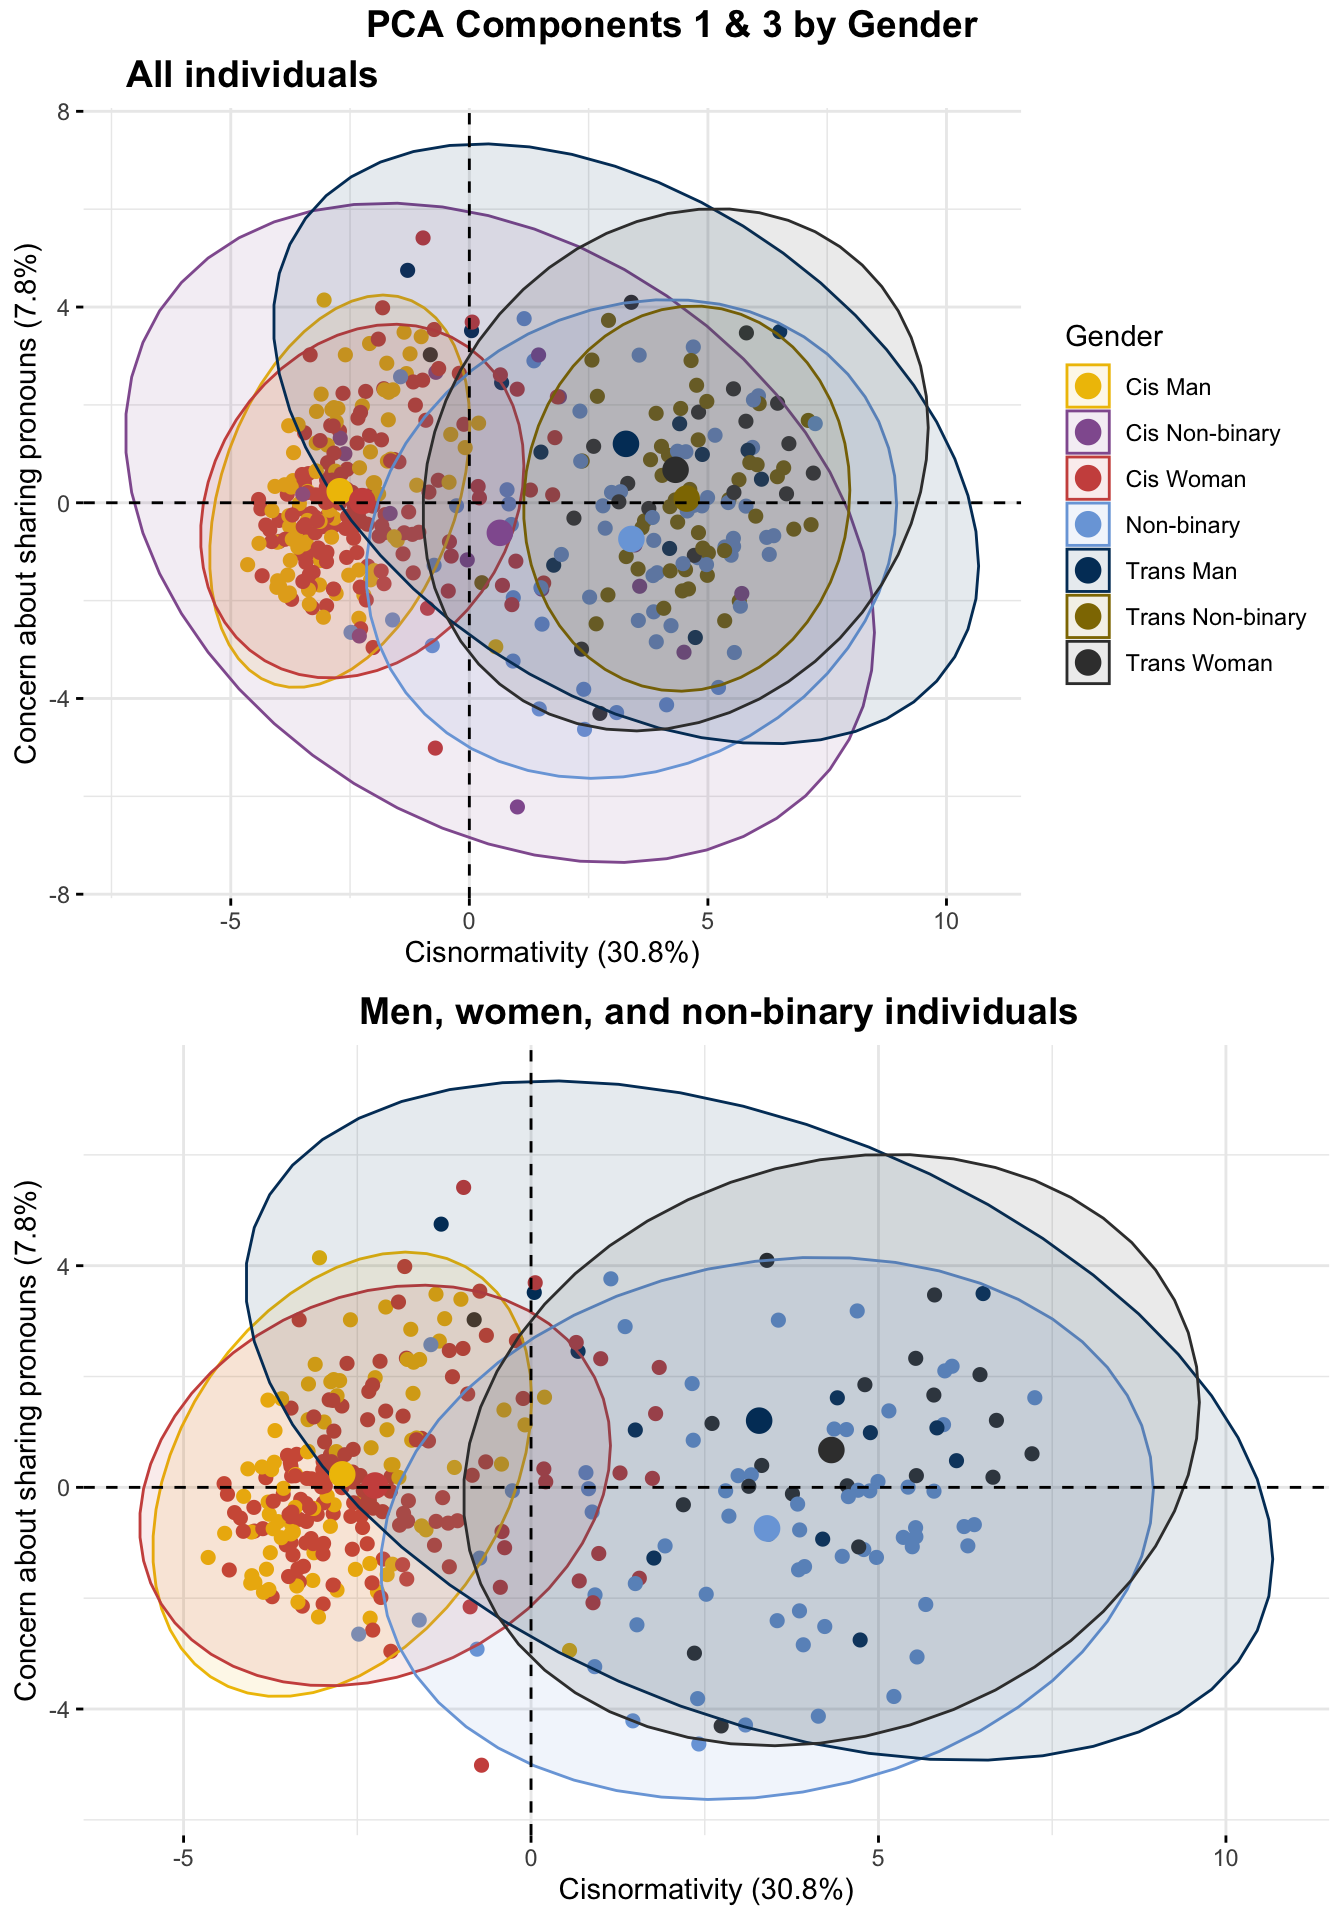
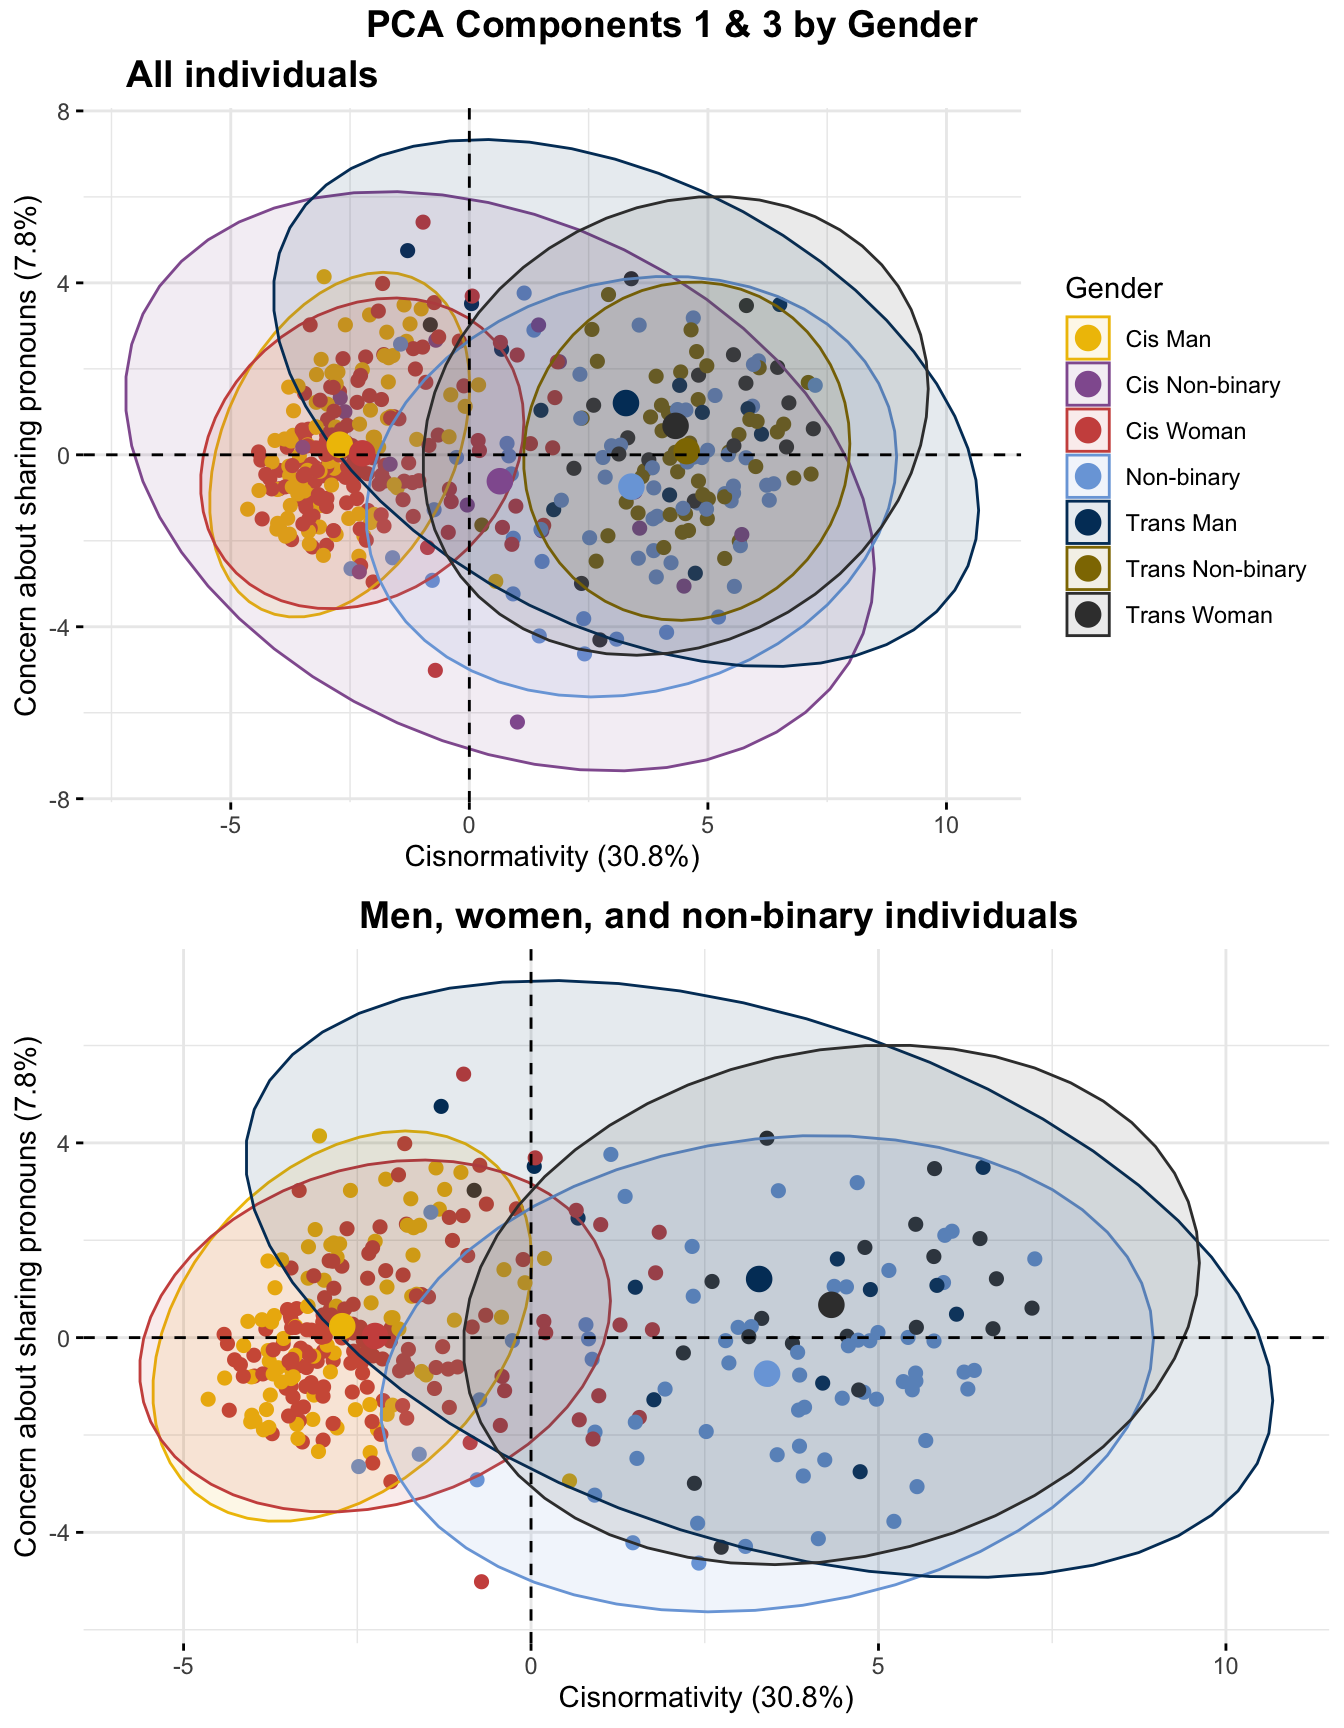
for my loyals fans :~)

diff --git a/3-results.html b/3-results.html
@@ -579,7 +579,7 @@ A Tukey post-hoc comparison revealed that cisgender men (<em>M</em> = 37.31, <em
 <h3><span class="header-section-number">3.5.1</span> Comfort sharing pronouns</h3>
 <!-- includes items 1, 2, 3, 7, 8, 9 -->
 <p>Items 1, 2, 3, 7, 8, and 9 touched on participant’s comfort sharing their pronouns.
-A factorial ANOVA found x effect of setting and x effect of a third-party’s presence or initiation on sharing pronouns.</p>
+A factorial ANOVA found a significant effect of setting, gender, and pronouns on comfort sharing pronouns, <em>F</em>(2, 1287) = 17.08, <em>p</em> &lt; 0.001. A post-hoc Tukey test found that generally, students are more comfortable sharing pronouns in class, (<em>M</em> = 4.5, <em>SD</em> = 0.98), and in non-academic settings at Reed, (<em>M</em> = 4.43, <em>SD</em> = 1.07), than they are in general, (<em>M</em> = 4.14, <em>SD</em> = 1.31). It also found that cisgender men, (<em>M</em> = 4.65, <em>SD</em> = 0.78), are more comfortable sharing their pronouns than trans men, (<em>M</em> = 4.11, <em>SD</em> = 1.24), trans women, (<em>M</em> = 3.22, <em>SD</em> = 1.51), and non-binary people, (<em>M</em> = 3.66, <em>SD</em> = 1.4). <strong>There are a lot of other effects (126 total!) and I’m not sure how to report all of them.</strong></p>
 </div>
 <div id="desire-to-share-pronouns" class="section level3" number="3.5.2">
 <h3><span class="header-section-number">3.5.2</span> Desire to share pronouns</h3>
@@ -1016,10 +1016,11 @@ misgendering_stigma
 <p>Loadings from the second component encompasses one’s desire to share one’s pronouns in various settings, as well as how comfortable one feels doing so. Because the largest loading in the second component is one’s desire to share pronouns, this seems to indicate one’s readiness to share pronouns.</p>
 <p>Loadings from the third component emphasize concern that sharing one’s pronouns will draw unwanted attention, as well as when others—not necessarily of the same gender—share their pronouns first and how consistent and representative one’s pronouns are with one’s gender. This component appears to represent concern around sharing pronouns and fears of judgment or lack of understanding about one’s pronouns.</p>
 <p><img src="thesis_files/figure-html/pca_vis-1.png" width="672" style="display: block; margin: auto;" /></p>
-<p>Visualization of the first and second component indicated possible bimodality along the first component. Hartigan’s dip test confirmed this, (<em>D</em> = 0.032, <em>p</em> = 0.006). This indicates that experiences with cisnormativity may be described as bimodal, likely indicating that cisgender and non-cisgender people have significantly different experiences navigating the world as their gender.</p>
-<p>A one-way ANOVA demonstrated a significant effect of gender on the first component, <em>F</em>(6, 391) = 226.3, <em>p</em> &lt; 0.001. A post-hoc Tukey test revealed that cisgender men, (<em>M</em> = -2.72, <em>SD</em> = 1.09), and women, (<em>M</em> = -2.25, <em>SD</em> = 1.37), are significantly less affected by cisnormativity than trans men, (<em>M</em> = 3.28, <em>SD</em> = 2.62), trans women, (<em>M</em> = 4.32, <em>SD</em> = 2), cisgender non-binary people, (<em>M</em> = 0.64, <em>SD</em> = 2.87), non-binary people, (<em>M</em> = 3.4, <em>SD</em> = 2.22), and transgender non-binary people, (<em>M</em> = 4.56, <em>SD</em> = 1.35). Cisgender non-binary people are also less affected than trans men, trans women, non-binary people, and transgender non-binary people. Trans non-binary people are also more affected than non-binary people.</p>
+<p>A one-way ANOVA demonstrated a significant effect of gender on the first component, <em>F</em>(6, 391) = 226.3, <em>p</em> &lt; 0.001. A post-hoc Tukey test revealed that cisgender men, (<em>M</em> = -2.72, <em>SD</em> = 1.09), and women, (<em>M</em> = -2.25, <em>SD</em> = 1.37), are significantly less affected by cisnormativity than trans men, (<em>M</em> = 3.28, <em>SD</em> = 2.62), trans women, (<em>M</em> = 4.32, <em>SD</em> = 2), cisgender non-binary people, (<em>M</em> = 0.64, <em>SD</em> = 2.87), non-binary people, (<em>M</em> = 3.4, <em>SD</em> = 2.22), and transgender non-binary people, (<em>M</em> = 4.56, <em>SD</em> = 1.35). Cisgender non-binary people are also less affected than trans men, trans women, non-binary people, and transgender non-binary people. Trans non-binary people are also more affected than non-binary people.<br />
+<img src="thesis_files/figure-html/comp1_bimodal_check-1.png" width="672" style="display: block; margin: auto;" />
+Visualization of the first component indicated possible bimodality along the first component. Hartigan’s dip test indicated that the distribution along the first component is unlikely to be unimodal, (<em>D</em> = 0.032, <em>p</em> = 0.006). This indicates that experiences with cisnormativity may be as bimodal. This indicates that cisgender and non-cisgender people may have significantly different experiences navigating the world as their gender.</p>
 <p>Another one-way ANOVA demonstrated a significant effect of gender on the second component, <em>F</em>(6, 391) = 6.15, <em>p</em> &lt; 0.001. A post-hoc Tukey test revealed that cisgender men, (<em>M</em> = -2.72, <em>SD</em> = 1.09), are less willing to share their pronouns than cisgender women, (<em>M</em> = -2.25, <em>SD</em> = 1.37) trans men, (<em>M</em> = 3.28, <em>SD</em> = 2.62), and non-binary people, (<em>M</em> = 3.4, <em>SD</em> = 2.22). Non-binary people are also more willing to share their pronouns than transgender women, (<em>M</em> = 4.32, <em>SD</em> = 2).</p>
-<p><strong>Am I interpreting this right?</strong> A final one-way ANOVA demonstrated a significant effect of gender on the third component, <em>F</em>(6, 391) = 4.27, <em>p</em> &lt; 0.001. Non-binary people, (<em>M</em> = 3.4, <em>SD</em> = 2.22), are significantly less concerned that sharing their pronouns will draw unwanted attention than cisgender men, (<em>M</em> = -2.72, <em>SD</em> = 1.09), cisgender women, (<em>M</em> = -2.25, <em>SD</em> = 1.37), transgender men (<em>M</em> = 3.28, <em>SD</em> = 2.62), and transgender women (<em>M</em> = 4.32, <em>SD</em> = 2). There were no significant effects between any other groups.</p>
+<p>A final one-way ANOVA demonstrated a significant effect of gender on the third component, <em>F</em>(6, 391) = 4.27, <em>p</em> &lt; 0.001. Non-binary people, (<em>M</em> = 3.4, <em>SD</em> = 2.22), are significantly less concerned that sharing their pronouns will draw unwanted attention than cisgender men, (<em>M</em> = -2.72, <em>SD</em> = 1.09), cisgender women, (<em>M</em> = -2.25, <em>SD</em> = 1.37), transgender men (<em>M</em> = 3.28, <em>SD</em> = 2.62), and transgender women (<em>M</em> = 4.32, <em>SD</em> = 2). There were no significant effects between any other groups.</p>
 <p><img src="thesis_files/figure-html/comp3_viz-1.png" width="672" style="display: block; margin: auto;" />
 However, this may be due to the fact that this is the third component which only accounts for 7.8% of the total variation. Visualization of the third component shows that there is considerable variation within groups.</p>
 

diff --git a/4-results.html b/4-results.html
@@ -579,7 +579,7 @@ A Tukey post-hoc comparison revealed that cisgender men (<em>M</em> = 37.31, <em
 <h3><span class="header-section-number">4.5.1</span> Comfort sharing pronouns</h3>
 <!-- includes items 1, 2, 3, 7, 8, 9 -->
 <p>Items 1, 2, 3, 7, 8, and 9 touched on participant’s comfort sharing their pronouns.
-A factorial ANOVA found x effect of setting and x effect of a third-party’s presence or initiation on sharing pronouns.</p>
+A factorial ANOVA found a significant effect of setting, gender, and pronouns on comfort sharing pronouns, <em>F</em>(2, 1287) = 17.08, <em>p</em> &lt; 0.001. A post-hoc Tukey test found that generally, students are more comfortable sharing pronouns in class, (<em>M</em> = 4.5, <em>SD</em> = 0.98), and in non-academic settings at Reed, (<em>M</em> = 4.43, <em>SD</em> = 1.07), than they are in general, (<em>M</em> = 4.14, <em>SD</em> = 1.31). It also found that cisgender men, (<em>M</em> = 4.65, <em>SD</em> = 0.78), are more comfortable sharing their pronouns than trans men, (<em>M</em> = 4.11, <em>SD</em> = 1.24), trans women, (<em>M</em> = 3.22, <em>SD</em> = 1.51), and non-binary people, (<em>M</em> = 3.66, <em>SD</em> = 1.4). <strong>There are a lot of other effects (126 total!) and I’m not sure how to report all of them.</strong></p>
 </div>
 <div id="desire-to-share-pronouns" class="section level3" number="4.5.2">
 <h3><span class="header-section-number">4.5.2</span> Desire to share pronouns</h3>
@@ -1016,10 +1016,11 @@ misgendering_stigma
 <p>Loadings from the second component encompasses one’s desire to share one’s pronouns in various settings, as well as how comfortable one feels doing so. Because the largest loading in the second component is one’s desire to share pronouns, this seems to indicate one’s readiness to share pronouns.</p>
 <p>Loadings from the third component emphasize concern that sharing one’s pronouns will draw unwanted attention, as well as when others—not necessarily of the same gender—share their pronouns first and how consistent and representative one’s pronouns are with one’s gender. This component appears to represent concern around sharing pronouns and fears of judgment or lack of understanding about one’s pronouns.</p>
 <p><img src="thesis_files/figure-html/pca_vis-1.png" width="672" style="display: block; margin: auto;" /></p>
-<p>Visualization of the first and second component indicated possible bimodality along the first component. Hartigan’s dip test confirmed this, (<em>D</em> = 0.032, <em>p</em> = 0.006). This indicates that experiences with cisnormativity may be described as bimodal, likely indicating that cisgender and non-cisgender people have significantly different experiences navigating the world as their gender.</p>
-<p>A one-way ANOVA demonstrated a significant effect of gender on the first component, <em>F</em>(6, 391) = 226.3, <em>p</em> &lt; 0.001. A post-hoc Tukey test revealed that cisgender men, (<em>M</em> = -2.72, <em>SD</em> = 1.09), and women, (<em>M</em> = -2.25, <em>SD</em> = 1.37), are significantly less affected by cisnormativity than trans men, (<em>M</em> = 3.28, <em>SD</em> = 2.62), trans women, (<em>M</em> = 4.32, <em>SD</em> = 2), cisgender non-binary people, (<em>M</em> = 0.64, <em>SD</em> = 2.87), non-binary people, (<em>M</em> = 3.4, <em>SD</em> = 2.22), and transgender non-binary people, (<em>M</em> = 4.56, <em>SD</em> = 1.35). Cisgender non-binary people are also less affected than trans men, trans women, non-binary people, and transgender non-binary people. Trans non-binary people are also more affected than non-binary people.</p>
+<p>A one-way ANOVA demonstrated a significant effect of gender on the first component, <em>F</em>(6, 391) = 226.3, <em>p</em> &lt; 0.001. A post-hoc Tukey test revealed that cisgender men, (<em>M</em> = -2.72, <em>SD</em> = 1.09), and women, (<em>M</em> = -2.25, <em>SD</em> = 1.37), are significantly less affected by cisnormativity than trans men, (<em>M</em> = 3.28, <em>SD</em> = 2.62), trans women, (<em>M</em> = 4.32, <em>SD</em> = 2), cisgender non-binary people, (<em>M</em> = 0.64, <em>SD</em> = 2.87), non-binary people, (<em>M</em> = 3.4, <em>SD</em> = 2.22), and transgender non-binary people, (<em>M</em> = 4.56, <em>SD</em> = 1.35). Cisgender non-binary people are also less affected than trans men, trans women, non-binary people, and transgender non-binary people. Trans non-binary people are also more affected than non-binary people.<br />
+<img src="thesis_files/figure-html/comp1_bimodal_check-1.png" width="672" style="display: block; margin: auto;" />
+Visualization of the first component indicated possible bimodality along the first component. Hartigan’s dip test indicated that the distribution along the first component is unlikely to be unimodal, (<em>D</em> = 0.032, <em>p</em> = 0.006). This indicates that experiences with cisnormativity may be as bimodal. This indicates that cisgender and non-cisgender people may have significantly different experiences navigating the world as their gender.</p>
 <p>Another one-way ANOVA demonstrated a significant effect of gender on the second component, <em>F</em>(6, 391) = 6.15, <em>p</em> &lt; 0.001. A post-hoc Tukey test revealed that cisgender men, (<em>M</em> = -2.72, <em>SD</em> = 1.09), are less willing to share their pronouns than cisgender women, (<em>M</em> = -2.25, <em>SD</em> = 1.37) trans men, (<em>M</em> = 3.28, <em>SD</em> = 2.62), and non-binary people, (<em>M</em> = 3.4, <em>SD</em> = 2.22). Non-binary people are also more willing to share their pronouns than transgender women, (<em>M</em> = 4.32, <em>SD</em> = 2).</p>
-<p><strong>Am I interpreting this right?</strong> A final one-way ANOVA demonstrated a significant effect of gender on the third component, <em>F</em>(6, 391) = 4.27, <em>p</em> &lt; 0.001. Non-binary people, (<em>M</em> = 3.4, <em>SD</em> = 2.22), are significantly less concerned that sharing their pronouns will draw unwanted attention than cisgender men, (<em>M</em> = -2.72, <em>SD</em> = 1.09), cisgender women, (<em>M</em> = -2.25, <em>SD</em> = 1.37), transgender men (<em>M</em> = 3.28, <em>SD</em> = 2.62), and transgender women (<em>M</em> = 4.32, <em>SD</em> = 2). There were no significant effects between any other groups.</p>
+<p>A final one-way ANOVA demonstrated a significant effect of gender on the third component, <em>F</em>(6, 391) = 4.27, <em>p</em> &lt; 0.001. Non-binary people, (<em>M</em> = 3.4, <em>SD</em> = 2.22), are significantly less concerned that sharing their pronouns will draw unwanted attention than cisgender men, (<em>M</em> = -2.72, <em>SD</em> = 1.09), cisgender women, (<em>M</em> = -2.25, <em>SD</em> = 1.37), transgender men (<em>M</em> = 3.28, <em>SD</em> = 2.62), and transgender women (<em>M</em> = 4.32, <em>SD</em> = 2). There were no significant effects between any other groups.</p>
 <p><img src="thesis_files/figure-html/comp3_viz-1.png" width="672" style="display: block; margin: auto;" />
 However, this may be due to the fact that this is the third component which only accounts for 7.8% of the total variation. Visualization of the third component shows that there is considerable variation within groups.</p>
 
